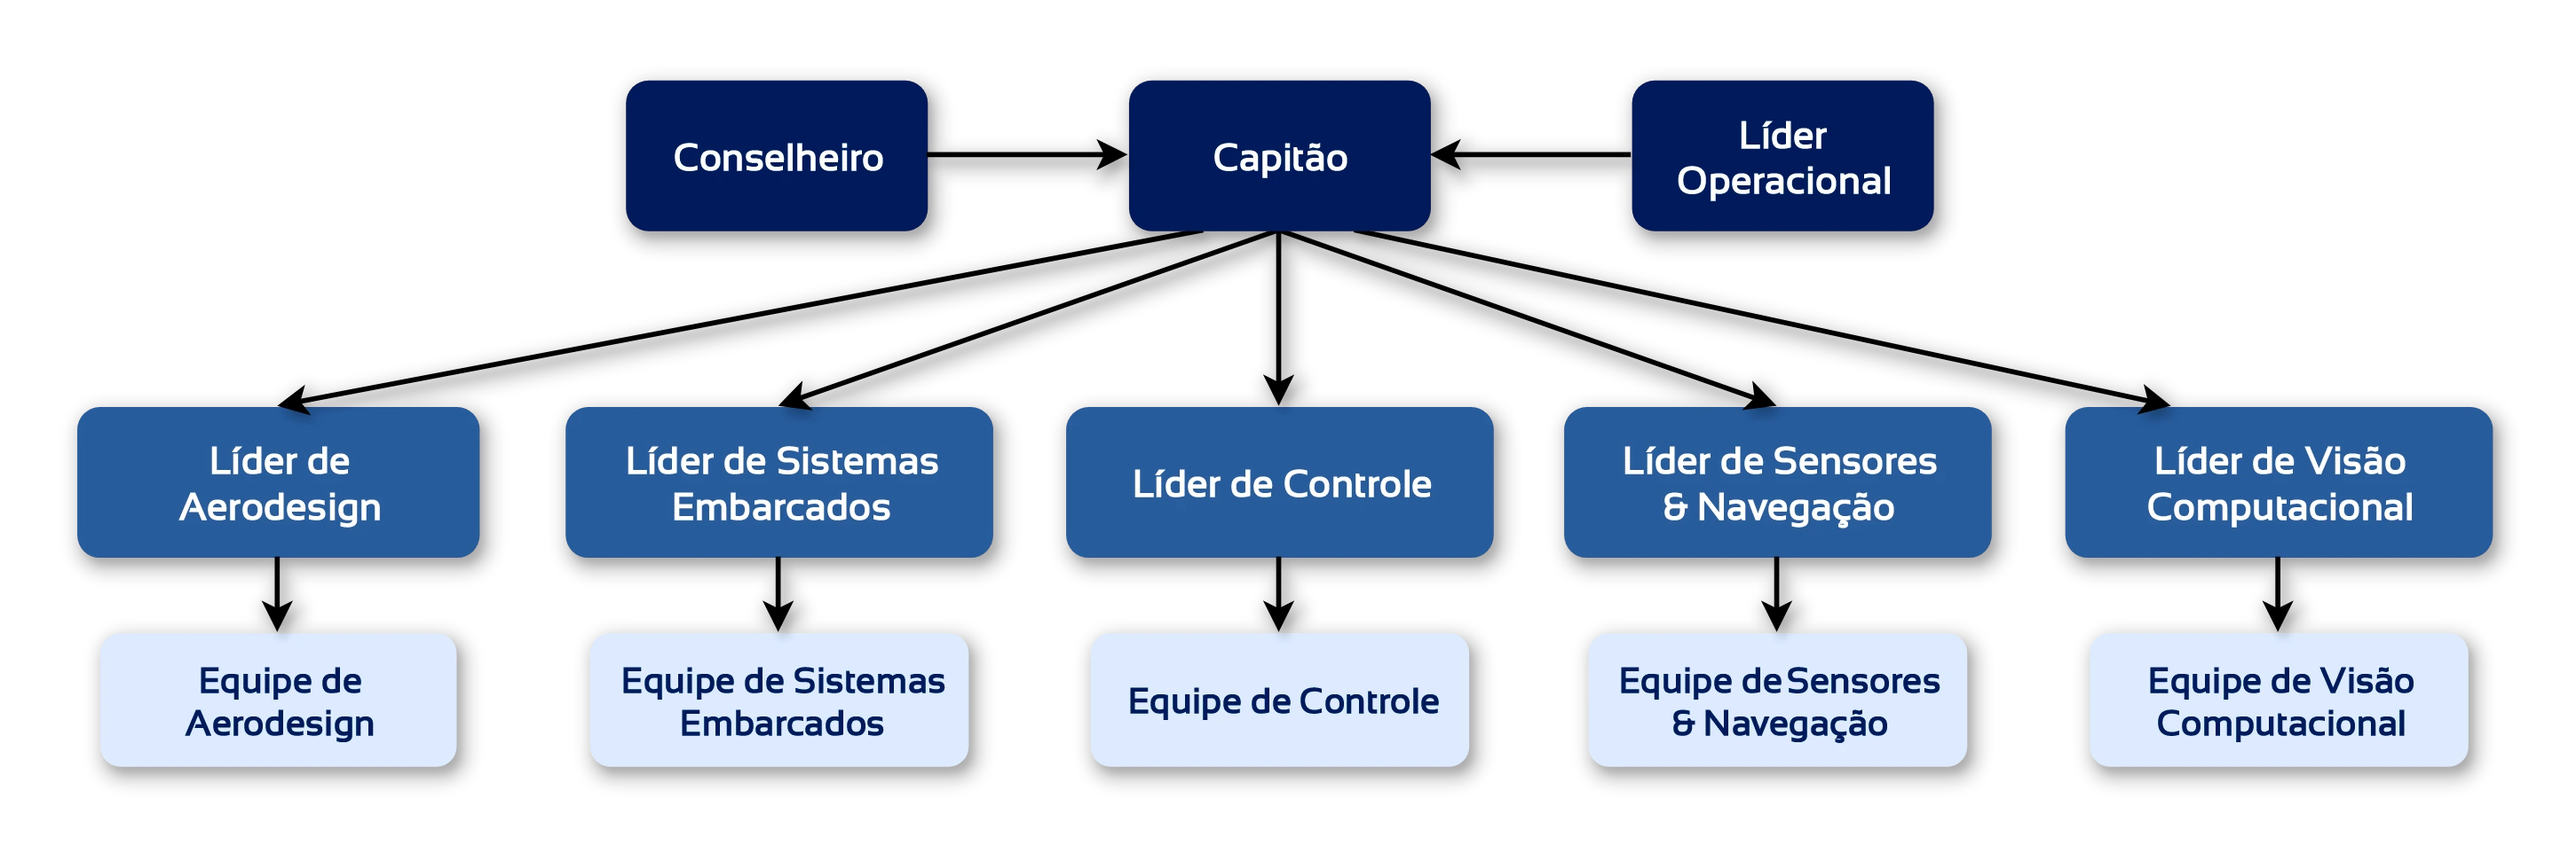
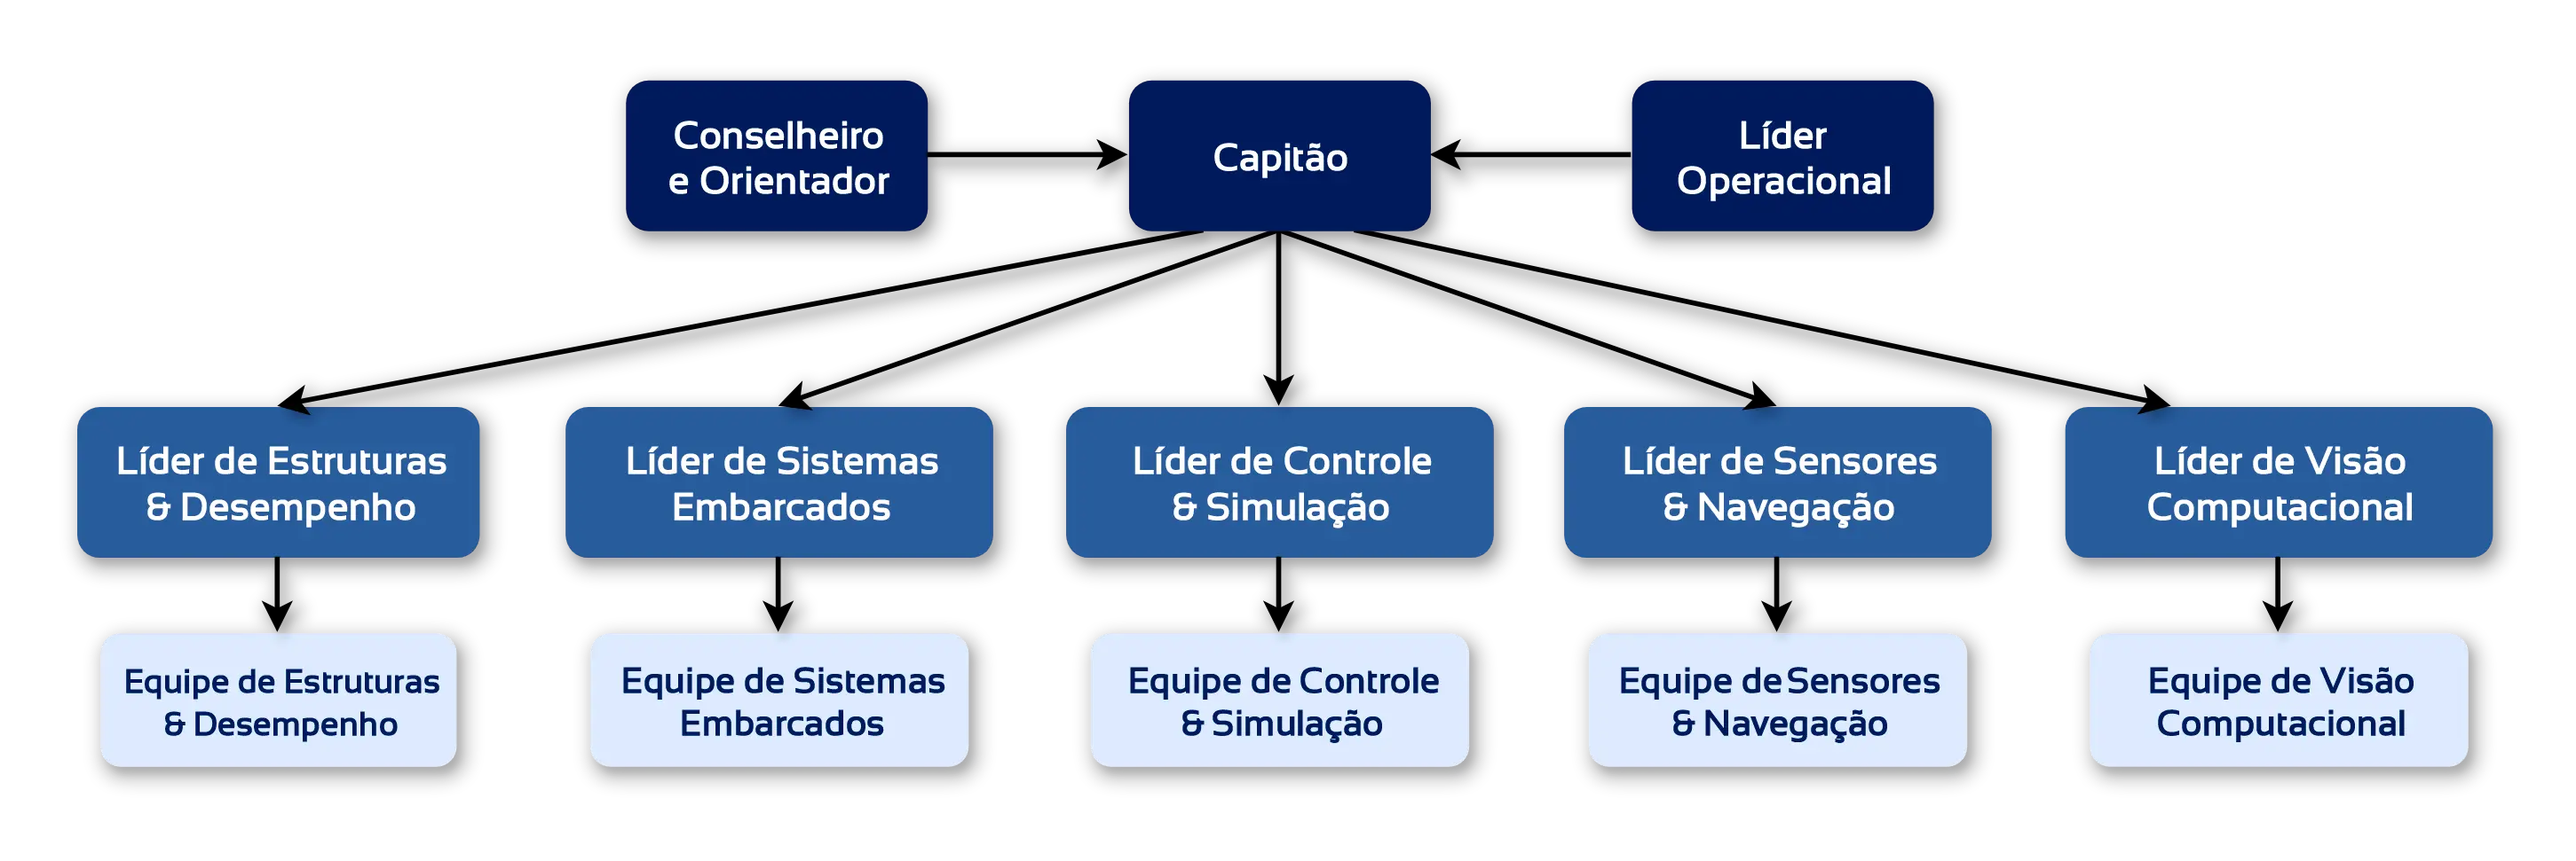
Pequenas atualizações em textos

diff --git a/src/components/projetos-page/projetos.jsx b/src/components/projetos-page/projetos.jsx
@@ -1,27 +1,24 @@
-// src/components/projetos-page/projetos.jsx
-
 import React from 'react';
 import { useNavigate } from 'react-router-dom';
 import './projetos.css';
 import { handleAnimationAndAction } from '../utils/animation-handler';
 
-// Importando imagens placeholder
 import imgLogan from '../../assets/projetos-page/logan.webp';
 import imgKwid from '../../assets/projetos-page/suspense.webp';
 
 const projetos = [
   {
     titulo: "LOGAN",
+    subtitulo: "Projeto Principal",
     descricao: "O LOGAN é nosso principal projeto, um drone desenvolvido para missões de reconhecimento e mapeamento autônomo. Equipado com sistemas de navegação avançados e visão computacional, ele é a base de nossas pesquisas e participação em competições nacionais, como a Eletroquad SAE Brasil.",
     tecnologias: ["DroneKit", "Ardupilot", "Python", "Visão Computacional", "Webots"],
     imagem: imgLogan,
   },
   {
     titulo: "...",
+    subtitulo: "Planejamento",
     descricao: "Nosso mais novo projeto, novas ideias, novos desafios e oportunidades de colocar em prática tudo que se aprende na teoria. Se você tem interesse por drones, tecnologia e quer fazer parte de algo inovador, o seu momento pode estar mais perto do que imagina. Inscreva-se no nosso processo seletivo e venha descobrir o que está por trás.",
     tecnologias: ["Processo Seletivo"],
-    /*descricao: "O KWID é nosso drone voltado para formação e inovação. Ele serve como plataforma de treinamento para novos membros, permitindo a familiarização com os principais sistemas embarcados e práticas de voo. Além disso, é utilizado para testar e explorar novas tecnologias, ferramentas e estratégias de desenvolvimento, fortalecendo a base técnica da equipe e impulsionando a experimentação contínua.",
-    tecnologias: ["C++", "Multiwii", "Esp32", "Sensores"],*/
     imagem: imgKwid,
   }
 ];
@@ -51,6 +48,7 @@ const Projetos = () => {
               </div>
               <div className="projeto-info">
                 <h2 className="projeto-titulo">{projeto.titulo}</h2>
+                <h3 className="projeto-subtitulo">{projeto.subtitulo}</h3>
                 <p className="projeto-descricao">{projeto.descricao}</p>
                 <div className="projeto-tecnologias">
                   {projeto.tecnologias.map((tech, idx) => (

diff --git a/src/App.jsx b/src/App.jsx
@@ -1,15 +1,17 @@
 import React, { useState, useEffect } from 'react';
-import { BrowserRouter as Router, Routes, Route, useLocation } from 'react-router-dom';
+import { HashRouter as Router, Routes, Route, useLocation } from 'react-router-dom';
+import { setupGoogleAnalytics } from './components/utils/analytics.jsx';
 
 import Header from './components/header/header.jsx';
 import Footer from './components/footer/footer.jsx';
 import ScrollToTop from './components/utils/scroll-to-top.jsx';
 import ComingSoon from './components/utils/coming-soon/coming-soon.jsx';
 import Popup from './components/utils/popup/popup.jsx';
+import useLaunchTimer from './components/utils/timer.jsx';
+import logoIcon from './assets/logos/icon.webp';
+import './App.css';
 
-import { setupGoogleAnalytics } from './components/utils/analytics.jsx';
 
-// Páginas
 import Home from './Home';
 import Contact from './components/contact-page/contact.jsx';
 import Seletivo from './components/seletivo-page/seletivo.jsx';
@@ -18,25 +20,19 @@ import Projetos from './components/projetos-page/projetos.jsx';
 import Competicoes from './components/competicoes-page/competicoes.jsx';
 import Sobre from './components/sobre-page/sobre.jsx';
 
-import './App.css';
-import logoIcon from './assets/logos/icon.webp';
-
-import useLaunchTimer from './components/utils/timer.jsx';
-
 const isPopupEnabled = true;
 
 function App() {
-  const targetLaunchDate = '2025-08-04T16:04:00';
+  // Data de lançamento do site IMPORTANTE!!!!!
+  const targetLaunchDate = '2025-08-04T18:10:00';
   
   const [showPopup, setShowPopup] = useState(false);
   const location = useLocation();
 
-  // 1. Carrega o script do Analytics apenas uma vez
   useEffect(() => {
     setupGoogleAnalytics();
   }, []);
 
-  // 2. Envia um evento de 'pageview' a cada mudança de rota
   useEffect(() => {
     if (window.gtag) {
       window.gtag('event', 'page_view', {

diff --git a/src/components/sobre-page/sobre.jsx b/src/components/sobre-page/sobre.jsx
@@ -1,15 +1,11 @@
-// src/components/sobre-page/sobre.jsx
-
 import React from 'react';
 import { useNavigate } from 'react-router-dom';
 import './sobre.css';
 import { handleAnimationAndAction } from '../utils/animation-handler';
-
-// IMAGENS
 import teamImage from '../../assets/sobre-page/sobre.webp';
 import fluxogramaImage from '../../assets/sobre-page/fluxograma.webp';
 
-// --- FOTOS DOS MEMBROS (EXEMPLOS) ---
+// Foto dos membros
 import angel from '../../assets/sobre-page/membros/angel.webp';
 import george from '../../assets/sobre-page/membros/george.webp';
 import carol from '../../assets/sobre-page/membros/carol.webp';
@@ -21,15 +17,15 @@ import pedro from '../../assets/sobre-page/membros/pedro.webp';
 import jp from '../../assets/sobre-page/membros/jp.webp';
 
 const teamMembers = [
-  { name: 'Carolyne Almeida', role: 'Capitã', photo: carol },
   { name: 'George Azevedo', role: 'Orientador/Coordenador', photo: george },
   { name: 'Angel Ayala', role: 'Conselheiro', photo: angel },
+  { name: 'Carolyne Almeida', role: 'Capitã', photo: carol },
   { name: 'Eliton Sena', role: 'Líder Operacional\nLíder de Sensores & Navegação', photo: eliton },
-  { name: 'Luís Arthur', role: 'Líder de Aerodesign', photo: arthur },
   { name: 'Ana Beatriz', role: 'Líder de Visão Computacional', photo: benny },
+  { name: 'Pedro Gabriel', role: 'Líder de Controle & Simulação', photo: pedro },
+  { name: 'Luiz Arthur', role: 'Líder de Estruturas & Desempenho', photo: arthur },
   { name: 'Gilvan Ramos', role: 'Líder de Sistemas Embarcados', photo: gilvan },
-  { name: 'Pedro Gabriel', role: 'Líder de Controle', photo: pedro },
-  { name: 'João Pedro', role: 'Membro de Aerodesign', photo: jp },
+  { name: 'João Pedro', role: 'Membro de Estruturas & Desempenho', photo: jp },
 ];
 
 const Sobre = () => {

diff --git a/src/components/header/header.jsx b/src/components/header/header.jsx
@@ -5,7 +5,7 @@ import { Link, useLocation, useNavigate } from 'react-router-dom';
 import { handleAnimationAndAction } from '../utils/animation-handler';
 import './header.css';
 import logoDeltaV from '../../assets/logos/logo.webp';
-import { FaBars, FaTimes } from 'react-icons/fa';
+import { FaBars, FaTimes, FaHome } from 'react-icons/fa';
 
 const Header = () => {
   const [menuAberto, setMenuAberto] = useState(false);
@@ -64,13 +64,18 @@ const Header = () => {
 
       <nav id="nav-links-mobile" className={`nav-container ${menuAberto ? 'aberto' : ''}`}>
         <ul className="nav-links">
-          {/* O LINK "QUEM SOMOS" AGORA APONTA PARA A NOVA PÁGINA */}
           <li><Link to="/sobre" onClick={(e) => handleLinkClick(e, '/sobre', true)}>Quem Somos</Link></li>
           <li><Link to="/competicoes" onClick={(e) => handleLinkClick(e, '/competicoes', true)}>Competições</Link></li>
           <li><Link to="/exposicoes" onClick={(e) => handleLinkClick(e, '/exposicoes', true)}>Exposições</Link></li>
           <li><Link to="/projetos" onClick={(e) => handleLinkClick(e, '/projetos', true)}>Projetos</Link></li>
           <li><Link to="/seletivo" onClick={(e) => handleLinkClick(e, '/seletivo', true)}>Processo Seletivo</Link></li>
           <li><Link to="/contato" onClick={(e) => handleLinkClick(e, '/contato', true)}>Contato</Link></li>
+          <li className="home-link-item">
+            <Link to="/" onClick={(e) => handleLinkClick(e, '/', true)}>
+              <FaHome aria-label="Início" className="home-icon" />
+              <span className="home-text">Início</span>
+            </Link>
+          </li>
         </ul>
       </nav>
     </header>

diff --git a/src/components/sobre-page/sobre.css b/src/components/sobre-page/sobre.css
@@ -1,5 +1,3 @@
-/* src/components/sobre-page/sobre.css */
-
 .sobre-section {
     padding: 160px 50px 80px 50px;
     background-color: #ffffff;
@@ -13,7 +11,6 @@
     margin: 0 auto;
 }
 
-/* --- Seção de Introdução --- */
 .sobre-intro-grid {
     display: grid;
     grid-template-columns: 1fr 1fr;
@@ -46,6 +43,7 @@
     line-height: 1.7;
     color: #333;
     margin-bottom: 20px;
+    text-align: justify;
 }
 
 .sobre-image-wrapper {
@@ -60,7 +58,6 @@
     box-shadow: 0 8px 24px rgba(0, 21, 74, 0.2);
 }
 
-/* --- CTA para Estrutura --- */
 .structure-cta {
     text-align: center;
     margin-bottom: 80px;
@@ -91,7 +88,6 @@
     }
 }
 
-/* --- Seção do Fluxograma --- */
 .team-structure-section {
     margin-bottom: 50px;
     text-align: center;
@@ -117,7 +113,6 @@
 }
 
 
-/* --- Seção de Membros --- */
 .team-members-section {
     text-align: center;
 }
@@ -141,7 +136,7 @@
     border-radius: 8px;
     box-shadow: 0 4px 12px rgba(0, 21, 74, 0.1);
     transition: transform 0.3s ease, box-shadow 0.3s ease;
-    text-align: center; /* Garante que o texto fique centralizado */
+    text-align: center;
 }
 
 .member-card:hover {
@@ -155,7 +150,7 @@
     border-radius: 50%;
     background-color: #e0eaff;
     margin: 0 auto 20px auto;
-    object-fit: cover; /* Garante que a imagem preencha o círculo sem distorcer */
+    object-fit: cover; 
     display: block;
 }
 
@@ -178,8 +173,6 @@
     color: #5f6c7b;
 }
 
-
-/* --- RESPONSIVIDADE --- */
 @media (max-width: 950px) {
     .sobre-section {
         padding: 120px 25px 60px 25px;

diff --git a/src/components/projetos-page/projetos.css b/src/components/projetos-page/projetos.css
@@ -1,8 +1,6 @@
-/* src/components/projetos-page/projetos.css */
-
 .projetos-section {
   padding: 160px 50px 80px 50px;
-  background-color: #f8f9fa; /* Fundo levemente acinzentado */
+  background-color: #f8f9fa;
   color: #00205b;
   font-family: 'Sansation', sans-serif;
   min-height: 100vh;
@@ -33,6 +31,14 @@
   line-height: 1.6;
 }
 
+.projeto-subtitulo {
+  font-size: 1.3rem;
+  color: #5f6c7b;
+  max-width: 800px;
+  line-height: 1.6;
+  margin-bottom: 10px;
+}
+
 .projetos-list {
   display: flex;
   flex-direction: column;
@@ -57,7 +63,6 @@
     box-shadow: 0 8px 20px rgba(0, 21, 74, 0.3);
 }
 
-/* Alterna a ordem da imagem e do texto */
 .projeto-card:nth-child(even) .projeto-imagem-wrapper {
   order: 2;
 }
@@ -91,6 +96,7 @@
   line-height: 1.7;
   color: #333;
   margin-bottom: 25px;
+  text-align: justify;
 }
 
 .projeto-tecnologias {
@@ -137,6 +143,6 @@
     grid-template-columns: 1fr;
   }
   .projeto-card:nth-child(even) .projeto-imagem-wrapper {
-    order: 0; /* Reseta a ordem no mobile */
+    order: 0;
   }
 }

diff --git a/src/components/header/header.css b/src/components/header/header.css
@@ -106,6 +106,21 @@
   pointer-events: none; /* Garante que o ícone oculto não seja clicável */
 }
 
+.home-link-item {
+  margin-left: 0; /* Remove a margem para o primeiro item */
+  margin-right: 30px;
+}
+.home-link-item .home-text {
+  display: none; /* Esconde o texto no desktop */
+}
+.home-link-item .home-icon {
+  font-size: 1.5em; /* Ajuste o tamanho do ícone */
+  transition: color 0.3s ease;
+}
+.home-link-item .home-icon:hover {
+  color: #aeb9c7;
+}
+
 @media (max-width: 1100px) {
   .header {
     padding: 15px 25px;
@@ -159,4 +174,15 @@
   .nav-links a {
     font-size: 1.5em;
   }
+
+  .home-link-item {
+    margin: 20px 0; /* Centraliza no menu mobile */
+  }
+  .home-link-item .home-text {
+    display: block; /* Garante que o texto seja visível no menu mobile */
+  }
+  .home-link-item .home-icon {
+    display: none; /* Esconde o ícone no menu mobile */
+  }
 }
+

diff --git a/src/components/utils/coming-soon/coming-soon.jsx b/src/components/utils/coming-soon/coming-soon.jsx
@@ -1,5 +1,3 @@
-// src/components/utils/coming-soon/coming-soon.jsx
-
 import React, { useState, useEffect } from 'react';
 import './coming-soon.css';
 
@@ -21,7 +19,6 @@ const ComingSoon = ({ initialSeconds, targetLaunchDate, onLaunch }) => {
   useEffect(() => {
     if (secondsLeft === null) return;
 
-    // Se a contagem chegar a zero, a página recarrega automaticamente
     if (secondsLeft <= 0) {
       window.location.reload();
       return;
@@ -32,10 +29,8 @@ const ComingSoon = ({ initialSeconds, targetLaunchDate, onLaunch }) => {
     }, 1000);
 
     return () => clearInterval(interval);
-    // Adicionamos 'secondsLeft' e 'onLaunch' ao array de dependências
   }, [secondsLeft, onLaunch]);
 
-  // Lógica de exibição da data (sem alterações)
   let launchDateString = "Carregando...";
   if (targetLaunchDate) {
     const launchDate = new Date(targetLaunchDate);

diff --git a/src/components/utils/analytics.jsx b/src/components/utils/analytics.jsx
@@ -1,19 +1,13 @@
-// src/components/utils/analytics.jsx
-
-// Função para configurar o Google Analytics
 export const setupGoogleAnalytics = () => {
-  // Cria o script principal do Google Analytics
   const scriptGtag = document.createElement('script');
   scriptGtag.async = true;
-  scriptGtag.src = "https://www.googletagmanager.com/gtag/js?id=G-E99N245LTE";
+  scriptGtag.src = "https://www.googletagmanager.com/gtag/js?id=G-NLJKS6MSQ8";
   document.head.appendChild(scriptGtag);
 
-  // Inicializa o dataLayer e a função gtag
   window.dataLayer = window.dataLayer || [];
   function gtag(){dataLayer.push(arguments);}
   gtag('js', new Date());
-  gtag('config', 'G-E99N245LTE');
+  gtag('config', 'G-NLJKS6MSQ8');
 
-  // Adiciona a função gtag ao escopo global (caso o script seja carregado tardiamente)
   window.gtag = gtag;
 };

diff --git a/src/components/seletivo-page/seletivo.jsx b/src/components/seletivo-page/seletivo.jsx
@@ -6,8 +6,8 @@ import { handleAnimationAndAction } from '../utils/animation-handler';
 import { useNavigate } from 'react-router-dom';
 
 const seletivo = () => {
-  const inscriptionLink = "https://forms.google.com"; // Link de Inscrição (Placeholder)
-  const editalLink = "https://docs.google.com";       // Link do Edital (Placeholder)
+  const inscriptionLink = "https://forms.gle/2bmosPNKtzEshQQS9"; // Link de Inscrição (Placeholder)
+  const editalLink = "https://drive.google.com/file/d/1OH65NQcs6KkRVW5O_A9kRWkT2cSM5wxO/view?usp=sharing";       // Link do Edital (Placeholder)
   const navigate = useNavigate();
 
   const handleInscriptionClick = (e) => {

diff --git a/src/App.css b/src/App.css
@@ -13,13 +13,12 @@ body {
   justify-content: center;
   align-items: center;
   height: 100vh;
-  background-color: #00102A; /* Cor de fundo do seu tema */
+  background-color: #00102A; 
 }
 
 .loading-logo {
   width: 100px;
   height: 100px;
-  /* Animação de pulsação */
   animation: pulse 2s infinite ease-in-out;
 }
 

diff --git a/src/components/utils/timer.jsx b/src/components/utils/timer.jsx
@@ -1,8 +1,5 @@
-// src/utils/timer.jsx
-
 import { useState, useEffect } from 'react';
 
-// URL da sua Vercel Function para obter a hora do servidor
 const VERCEL_API_URL = 'https://time-seven-ruddy.vercel.app/api/getServerTime';
 
 const timeService = {
